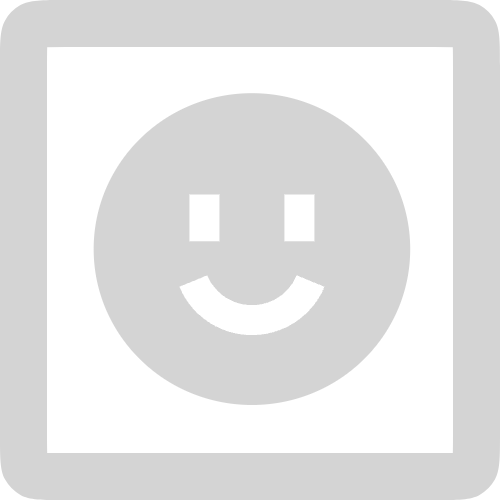
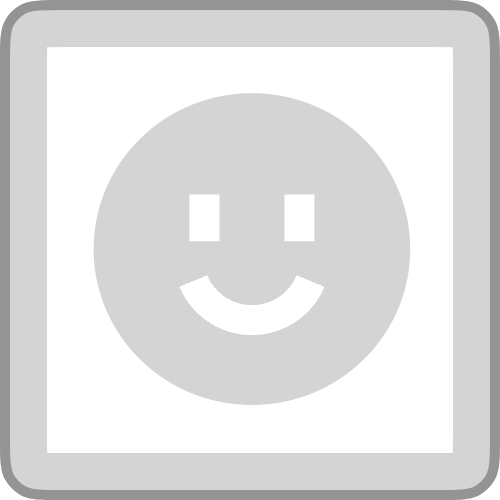
update img

Changed region(s): [[0.0, 0.0, 1.0, 1.0]]

diff --git a/Classes/Boxes/controler.h b/Classes/Boxes/controler.h
@@ -46,13 +46,27 @@ public:
 		boxes.clear();
 		boxeslist.clear();
 		//===============================
-		big = panel->boxes[0];
 		player = panel->player;
+
+		if (player->father) {
+			if (player->father->father) {
+				big = player->father->father;
+			}
+			else {
+				big = player->father;
+			}
+		}
+		else {
+			big = panel->boxes[0];
+		}
+
+		
 		ResBox::big = big;
 		ResBox::player = player;
 		for (int i = 0; i < panel->boxes.size(); i++) {
 			boxeslist.push_back(panel->boxes[i]);
 		}
+		
 		
 		//====================
 		//big = new ResBox(1, {4,4});
@@ -112,6 +126,11 @@ public:
 		s->setPosition(Vec2(winSize.width / 2, winSize.height / 2));
 		s->setColor(big->color);
 		gs->addChild(s);
+		Sprite* board = Sprite::create("MainMenu/boxes/around.png");
+		board->setPosition(Vec2(0, 0));
+		board->setContentSize(Size(size*1.02 , size * 1.02));
+		board->setColor(big->color);
+		s->addChild(board);
 		initPanel(s, size / big->size.first,big->size,big->color,big);
 		for (int i = 0; i < big->size.first; i++) {
 			for (int j = 0; j < big->size.second; j++) {
@@ -146,6 +165,11 @@ public:
 			s->setColor(draw->color);
 			father->addChild(s);
 			boxes.push_back(s);
+			Sprite* board = Sprite::create("MainMenu/boxes/around.png");
+			board->setPosition(Vec2(0, 0));
+			board->setContentSize(Size(size * 1.02, size * 1.02));
+			board->setColor(draw->color);
+			s->addChild(board);
 			initPanel(s, size / draw->size.first, draw->size, draw->color,draw);
 			if (size < 0.1) {
 				return;
